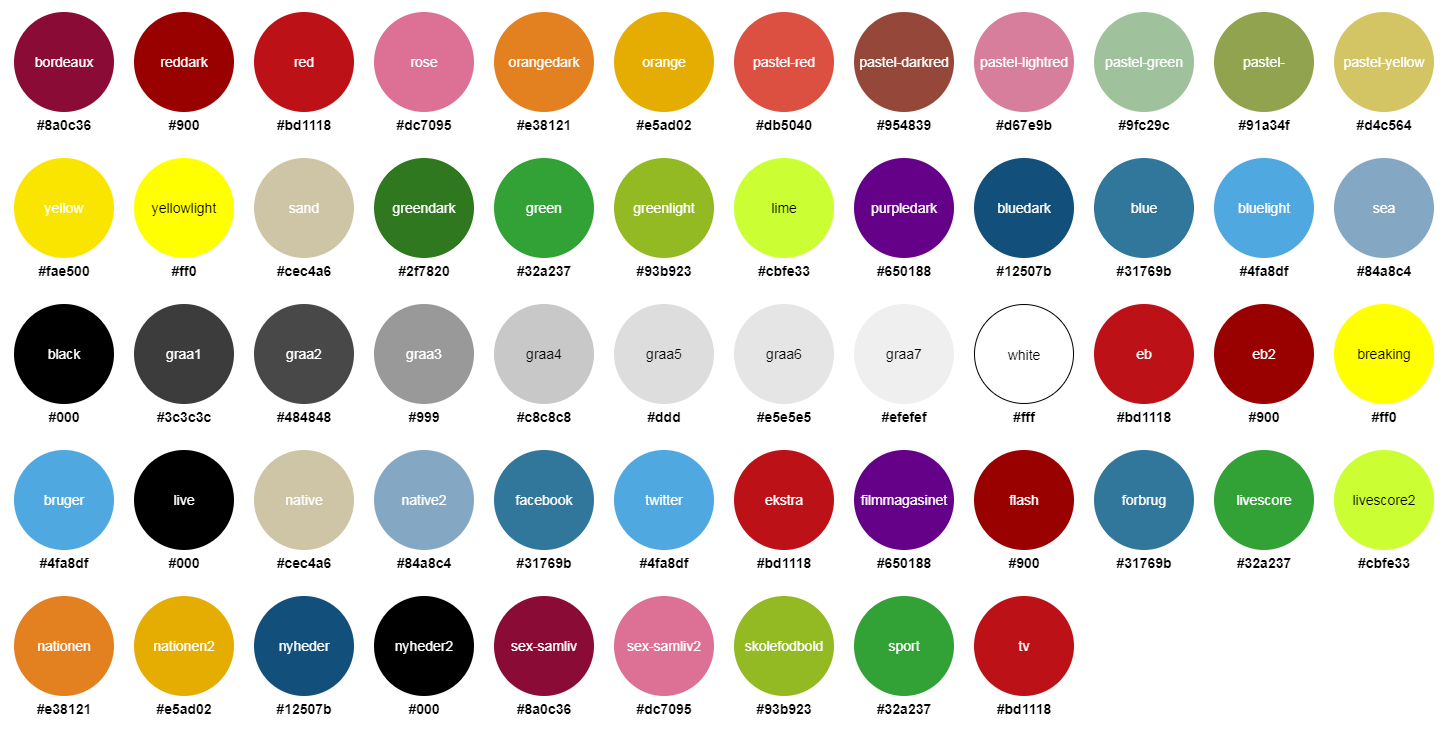
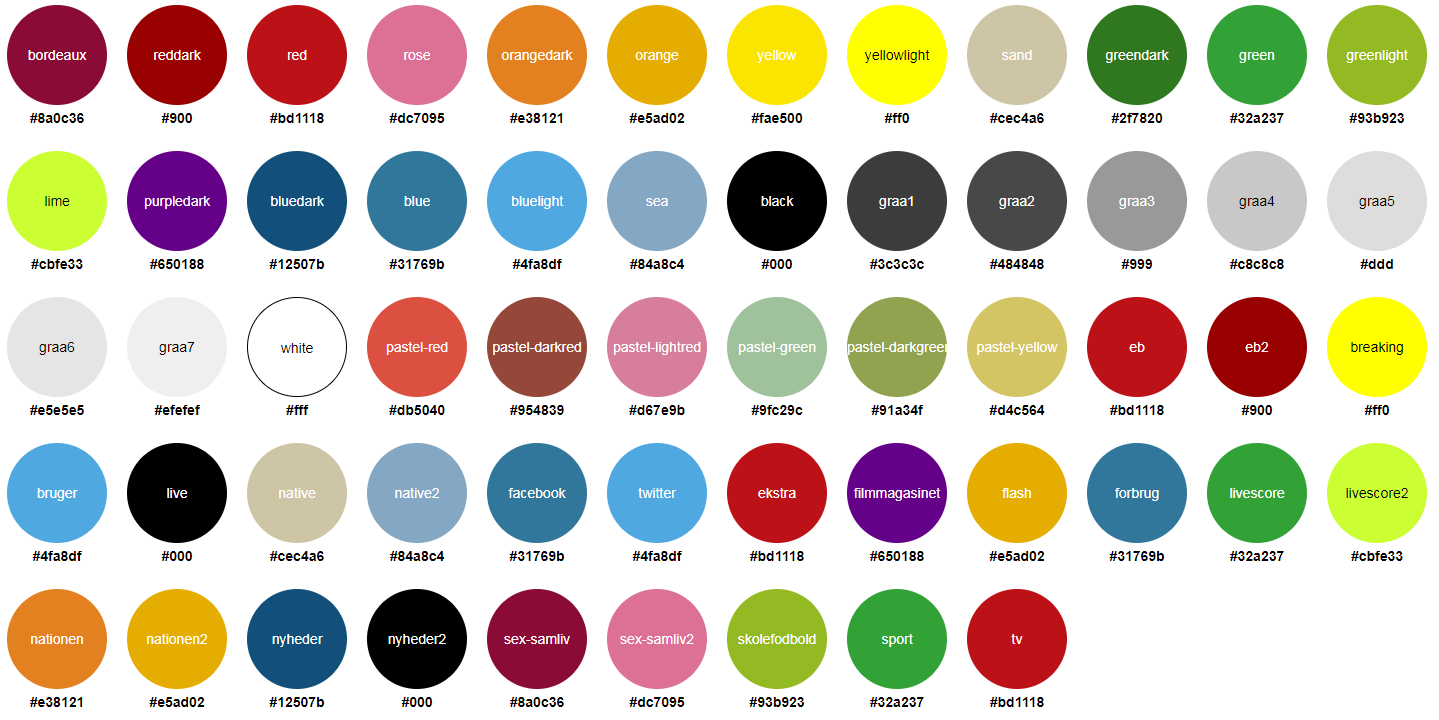
Changed flash color to orange

diff --git a/example/eb-colors-classes.js b/example/eb-colors-classes.js
@@ -448,7 +448,7 @@ var ebColorMap = {
                 ".bg--flash"
             ],
             "declarations": {
-                "background": "#900",
+                "background": "#e5ad02",
                 "color": "#fff"
             }
         },
@@ -974,7 +974,7 @@ var ebColorMap = {
                 ".color--flash"
             ],
             "declarations": {
-                "color": "#900"
+                "color": "#e5ad02"
             }
         },
         {

diff --git a/dist/eb-colors-classes.css b/dist/eb-colors-classes.css
@@ -219,7 +219,7 @@
 }
 
 .bg--flash {
-  background: #900;
+  background: #e5ad02;
   color: #fff;
 }
 
@@ -460,7 +460,7 @@
 }
 
 .color--flash {
-  color: #900;
+  color: #e5ad02;
 }
 
 .color--forbrug {

diff --git a/src/sections/_flash.scss b/src/sections/_flash.scss
@@ -1,5 +1,5 @@
 $eb-color-flash: (
-  "flash": map-get($eb-colors-colors, "reddark")
+  "flash": map-get($eb-colors-colors, "orange")
 );
 
 $eb-print-bg: true !default;

diff --git a/dist/eb-colors-vars-rgb.css b/dist/eb-colors-vars-rgb.css
@@ -120,7 +120,7 @@
 }
 
 :root {
-  --rgb-color--flash: 153, 0, 0;
+  --rgb-color--flash: 229, 173, 2;
   --rgb-fgcolor--flash: 255, 255, 255;
 }
 

diff --git a/dist/eb-colors-css-vars.css b/dist/eb-colors-css-vars.css
@@ -120,7 +120,7 @@
 }
 
 :root {
-  --color--flash: #900;
+  --color--flash: #e5ad02;
   --fgcolor--flash: #fff;
 }
 

diff --git a/README.md b/README.md
@@ -1,6 +1,6 @@
 # EB Colors
 
-Version: 2.0.3
+Version: 2.1.0
 
 > EB colors for SCSS and CSS
 
